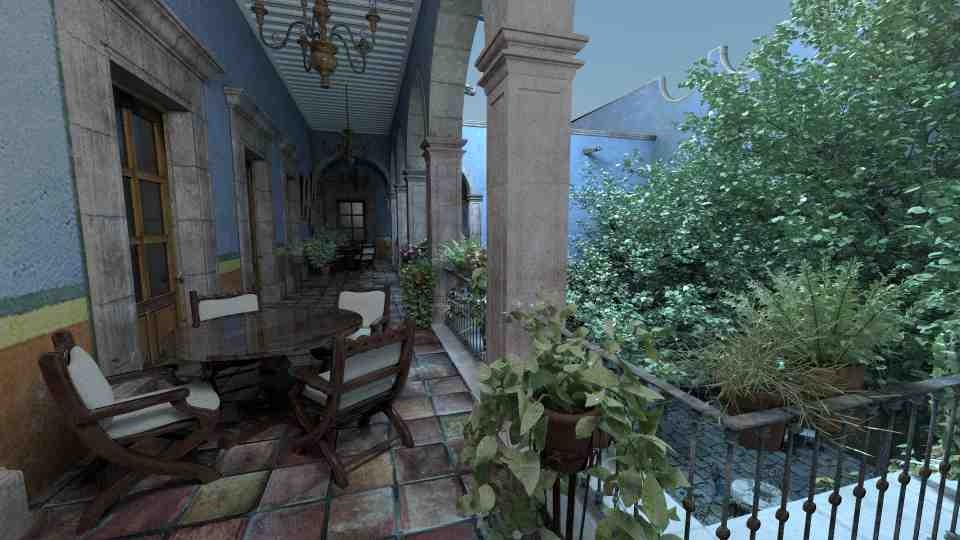
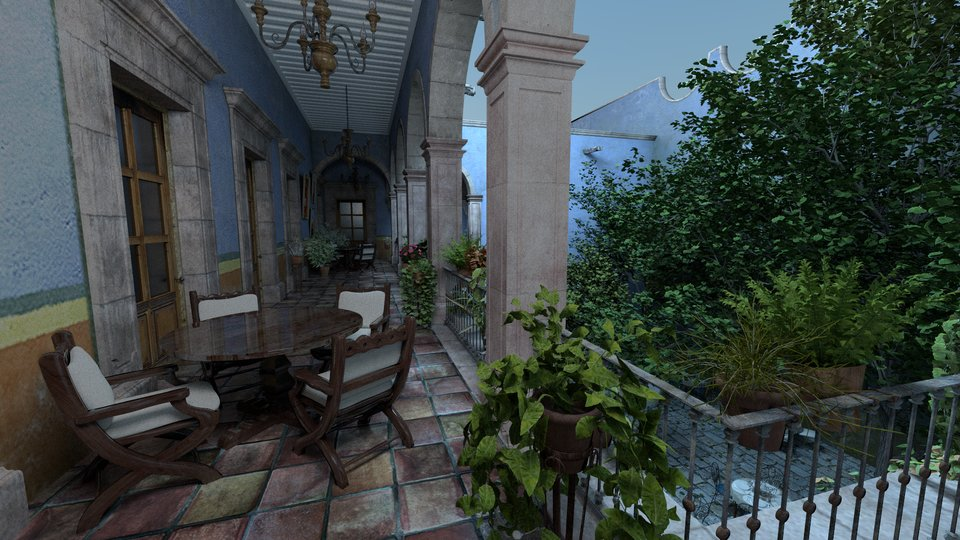
[Gallery] Add two San Miguel render
- Replace old one with a new image ( 1024 SPP ).
- The vertical one is rendered with 512 SPP.

diff --git a/gallery.html b/gallery.html
@@ -109,8 +109,20 @@
         </div>
 
         <div class="mb-3">
+            <a href="./assets/gallery/santa_hat.png" data-lightbox="image-1">
+                <img src="./assets/gallery/thumb/santa_hat.jpg"/>
+            </a>
+        </div>
+        
+        <div class="mb-3">
             <a href="./assets/gallery/san_miguel_0.png" data-lightbox="image-1"  data-title="Asset courtesy of <a href='https://casual-effects.com/data/'> Morgan McGuire</a>.">
                 <img src="./assets/gallery/thumb/san_miguel_0.jpg"/>
+            </a>
+        </div>
+
+        <div class="mb-3">
+            <a href="./assets/gallery/san_miguel_1.png" data-lightbox="image-1"  data-title="Asset courtesy of <a href='https://casual-effects.com/data/'> Morgan McGuire</a>.">
+                <img src="./assets/gallery/thumb/san_miguel_1.jpg"/>
             </a>
         </div>
 
@@ -147,12 +159,6 @@
         <div class="mb-3">
             <a href="./assets/gallery/table.png" data-lightbox="image-1">
                 <img src="./assets/gallery/thumb/table.jpg"/>
-            </a>
-        </div>
-
-        <div class="mb-3">
-            <a href="./assets/gallery/santa_hat.png" data-lightbox="image-1">
-                <img src="./assets/gallery/thumb/santa_hat.jpg"/>
             </a>
         </div>
 
